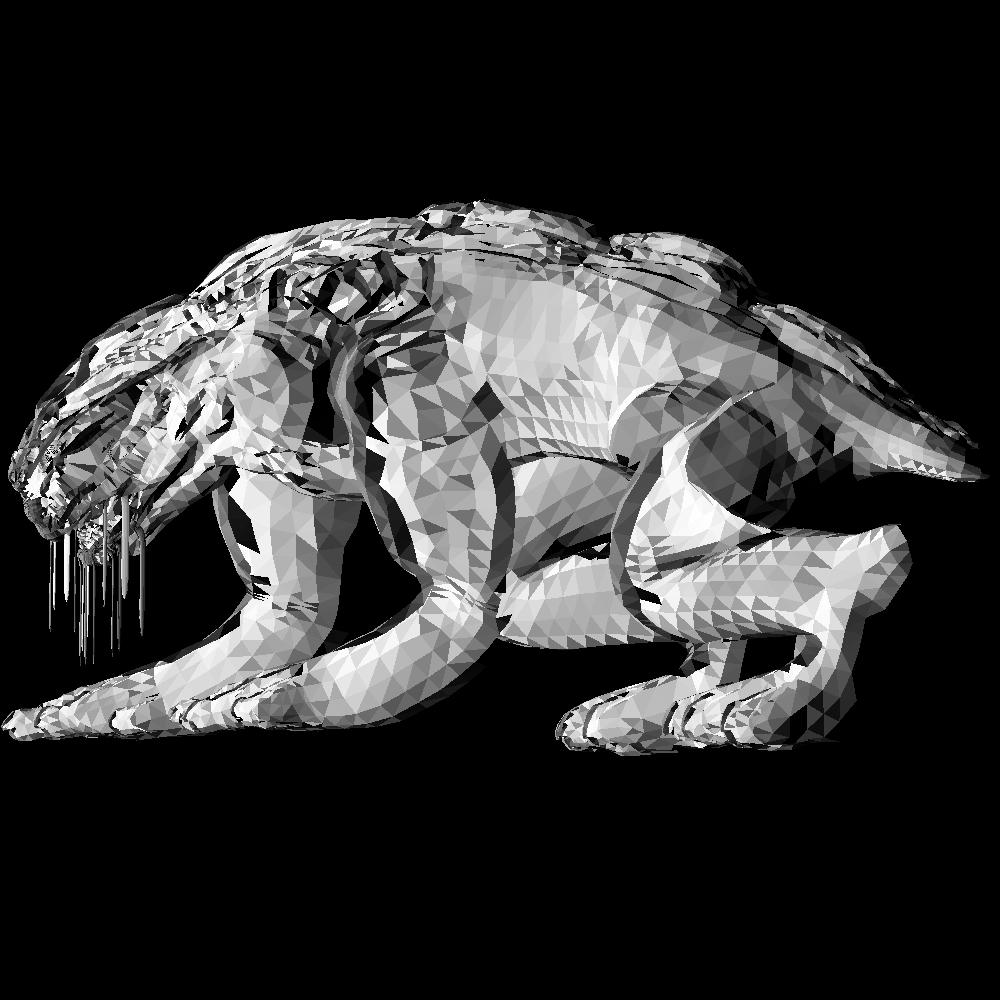
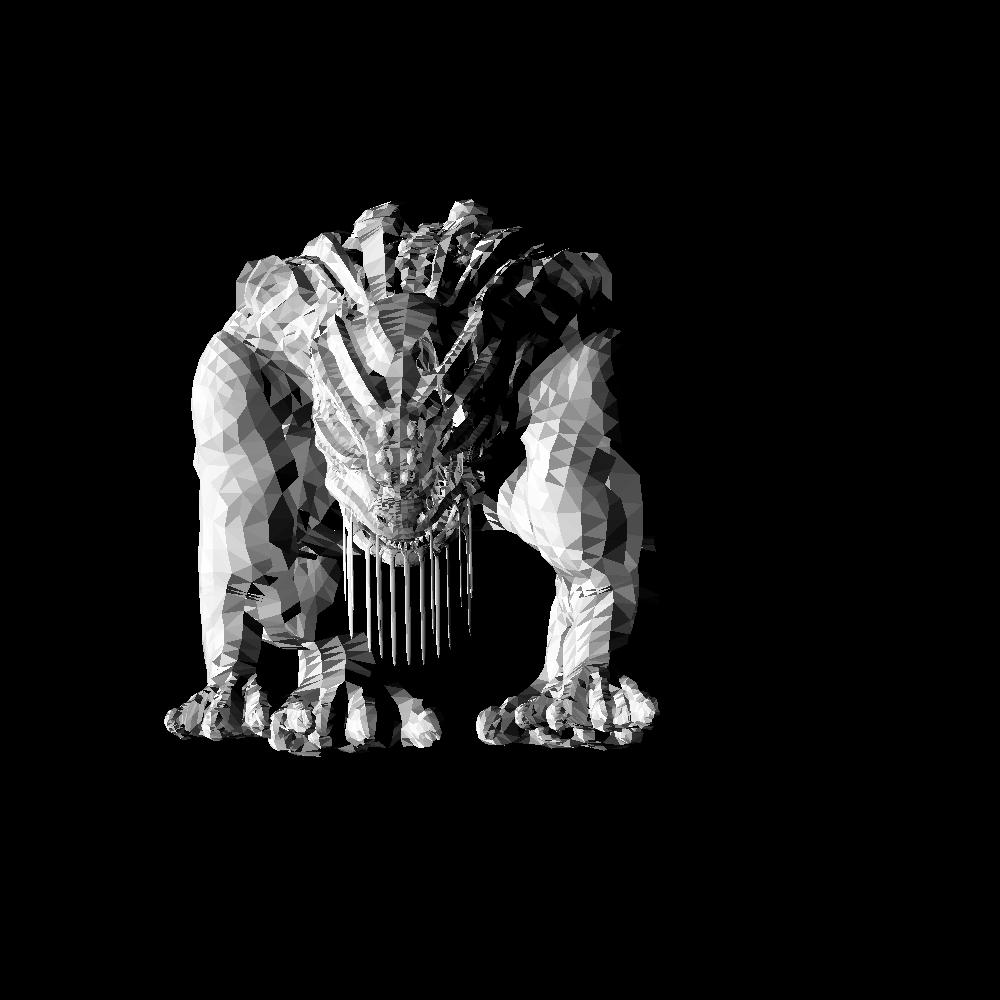
Lab3

diff --git a/Task17.py b/Task17.py
@@ -13,7 +13,7 @@ poligons = model.getPoligons()
 points = model.getPoints()
 cos_lights = model.getCos_light()
 
-model.rotate(0, 45, 0)
+model.rotate(0, 90, 0)
 
 drawer = Drawer()
 
